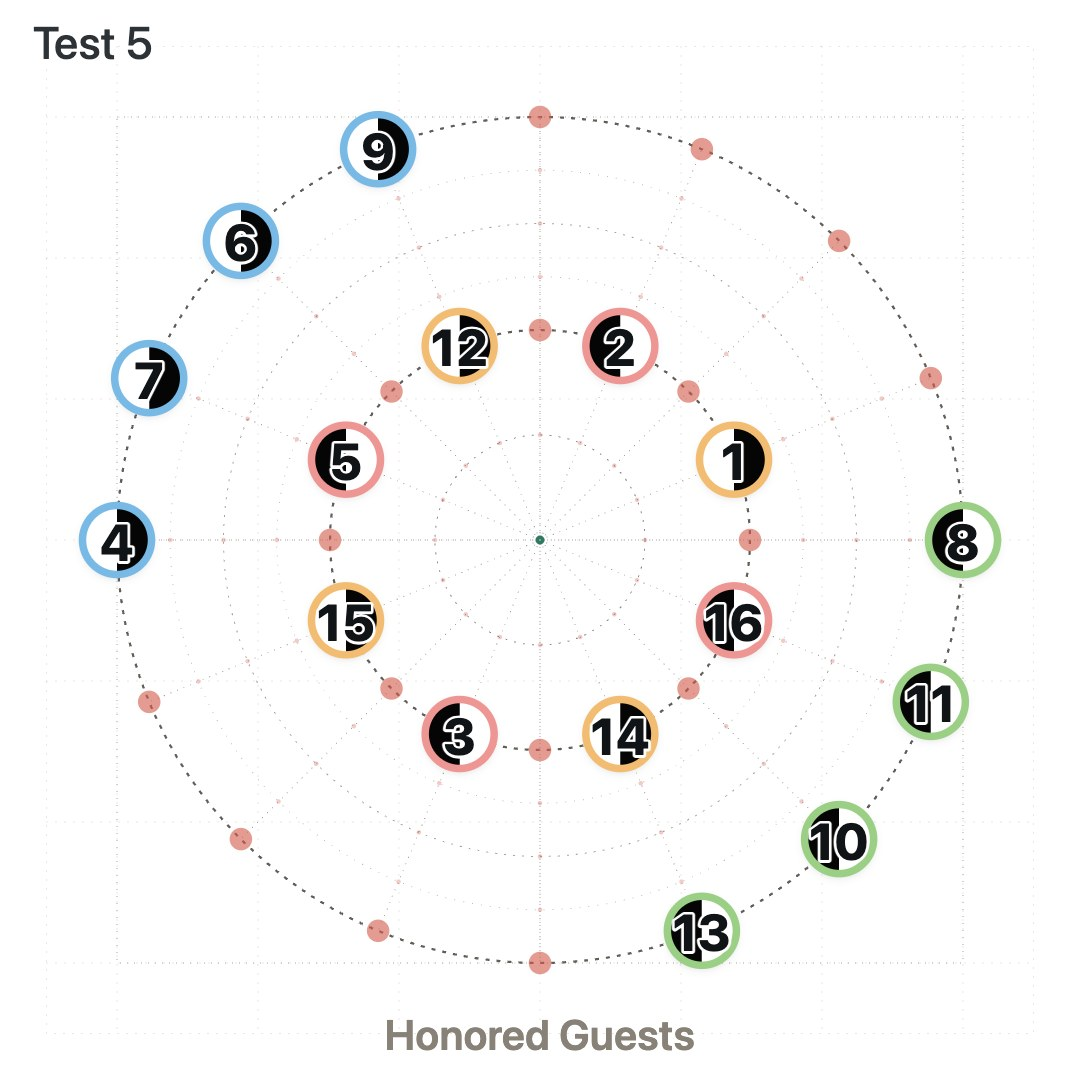
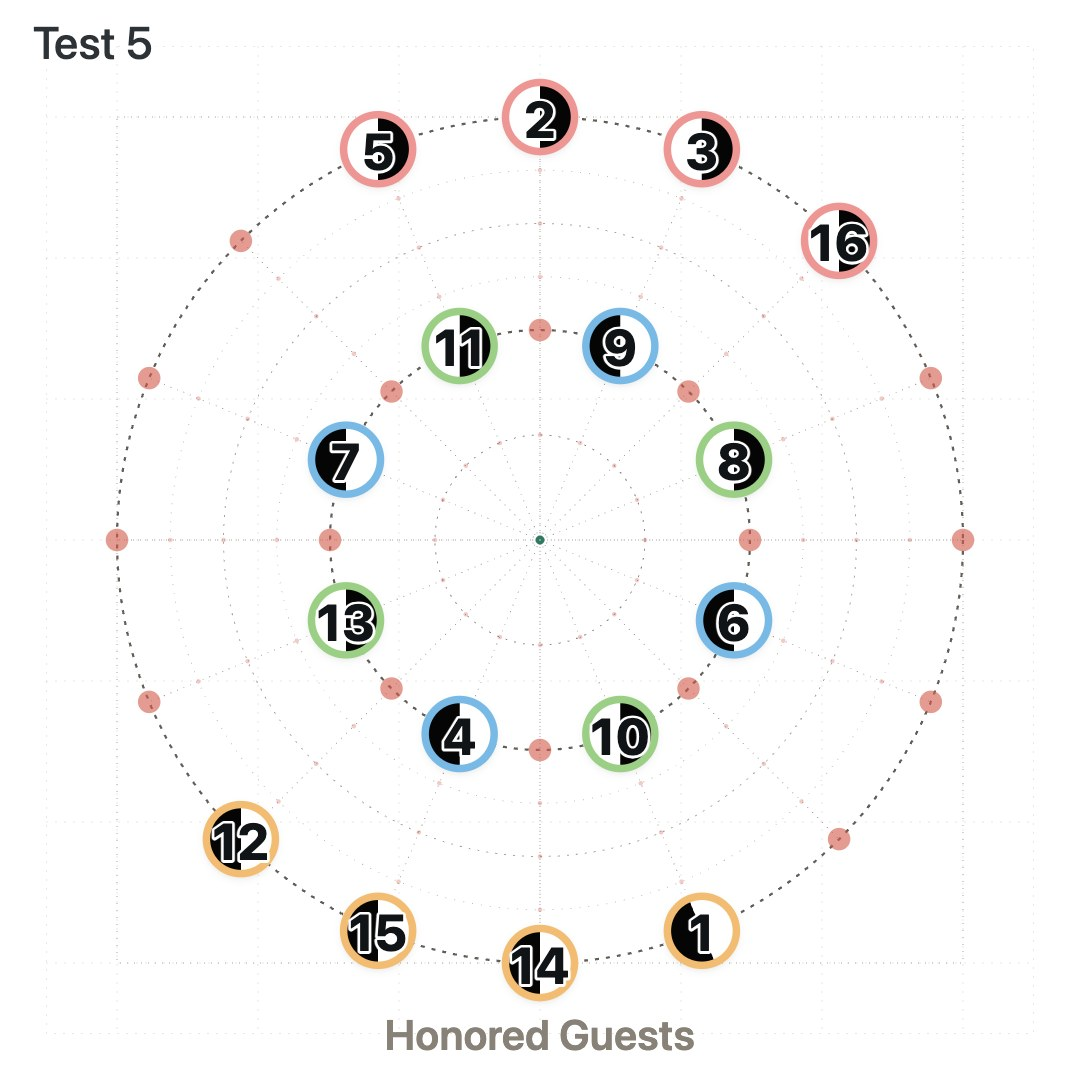
Waltz 14 Swirling Cascade: Test 4/5 back to amber/rose outside, facings flipped, couple 1 F backing LOD

diff --git a/index.html b/index.html
@@ -5065,12 +5065,11 @@
               return named(line, swirl, "Test 2");
             })(),
             test3(),
-            // "Test 4" (Ariel, 11/23): the circles swap. Amber and rose come in to the inside circle,
-            // one couple every other tape (cardinals and diagonals), amber and rose alternating. Green
-            // and blue go out to the outside circle onto the 4 tapes of each empty quarter: green the
-            // bottom right, from 1 tape below the east cardinal to the south cardinal; blue the top
-            // left, from 1 tape above the west cardinal to the north cardinal. Each couple takes the
-            // nearest spot it can in its set.
+            // "Test 4" (Ariel, 11/23): amber and rose travel 1 tape along the line of dance
+            // (counterclockwise) on the outside circle; green and blue spread onto the inside circle,
+            // one couple every other tape (cardinals and diagonals), green and blue alternating, each
+            // couple taking the nearest such spot it can. Every couple's facing is flipped from Test 3
+            // (amber and blue follows now face left, green and rose follows right).
             ...(() => {
               const shot = test3("Test 4");
               const tape = Math.PI / 8;
@@ -5083,23 +5082,21 @@
               const best = (items, angles, radius) => perms(angles).reduce((a, b) => (cost(items, b, radius) < cost(items, a, radius) ? b : a));
               const group = (color) => shot.items.filter((item) => item.groupColor === color);
               const place = (items, angles, radius) => items.forEach((item, i) => { const p = at(angles[i], radius); item.x = fix(p.x); item.y = fix(p.y); });
-              // Outside circle, tape k at k × 22.5° clockwise from east (4 = south, 12 = north).
-              const quarter = (from) => [0, 1, 2, 3].map((k) => (from + k) * tape);
+              // Inside circle: green on every other spot, blue between, whichever way round is nearer.
               const green = group("green"), blue = group("blue");
-              const greenAngles = best(green, quarter(1), OUTER_RADIUS);
-              const blueAngles = best(blue, quarter(9), OUTER_RADIUS);
-              // Inside circle: amber on every other spot, rose between, whichever way round is nearer.
-              const amber = group("amber"), rose = group("rose");
               const spots = Array.from({ length: 8 }, (_, k) => (k * Math.PI) / 4);
               const choice = [0, 1].map((parity) => {
-                const a = best(amber, spots.filter((_, k) => k % 2 === parity), INNER_RADIUS);
-                const r = best(rose, spots.filter((_, k) => k % 2 !== parity), INNER_RADIUS);
-                return { a, r, total: cost(amber, a, INNER_RADIUS) + cost(rose, r, INNER_RADIUS) };
+                const g = best(green, spots.filter((_, k) => k % 2 === parity), INNER_RADIUS);
+                const b = best(blue, spots.filter((_, k) => k % 2 !== parity), INNER_RADIUS);
+                return { g, b, total: cost(green, g, INNER_RADIUS) + cost(blue, b, INNER_RADIUS) };
               }).reduce((x, y) => (y.total < x.total ? y : x));
-              place(green, greenAngles, OUTER_RADIUS);
-              place(blue, blueAngles, OUTER_RADIUS);
-              place(amber, choice.a, INNER_RADIUS);
-              place(rose, choice.r, INNER_RADIUS);
+              place(green, choice.g, INNER_RADIUS);
+              place(blue, choice.b, INNER_RADIUS);
+              [...group("amber"), ...group("rose")].forEach((item) => Object.assign(item, turnLod(item, 1)));
+              const flipped = { east: "west", west: "east" };
+              shot.items.forEach((item) => { item.facingMode = flipped[item.facingMode] ?? item.facingMode; });
+              // Except couple 1 (Ariel, 11/23): F backing the line of dance.
+              shot.items.find((item) => item.number === 1).facingMode = "cw";
               // "Test 5" (Ariel, 11/23), the next measure: everyone travels 1 more tape along the line
               // of dance, each on their own circle.
               const next = named({ ...structuredClone(shot), items: shot.items.map((item) => ({ ...item, ...turnLod(item, 1) })) }, swirl, "Test 5");
